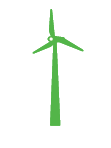
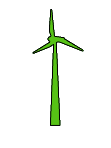
change by project function event click

Changed region(s): [[0.2703, 0.0541, 0.7568, 0.8649]]

diff --git a/web/assets/core/js/page-dashboard-summary.js b/web/assets/core/js/page-dashboard-summary.js
@@ -835,7 +835,7 @@ sum.indiaMap = function (project) {
         var markers = new Array();
 
         turbineInfos.forEach(function (obj, idx) {
-            var imgUrl = (obj.status == true ? "../res/img/turbine-green.png" : "../res/img/turbine-red.png")
+            var imgUrl = (obj.status == true ? "../res/img/turbine-green-new.png" : "../res/img/turbine-red.png")
 
             var marker = new google.maps.Marker({
                 position: new google.maps.LatLng(obj.coords[0], obj.coords[1]),
@@ -843,7 +843,7 @@ sum.indiaMap = function (project) {
                 title: obj.name,
                 icon: {
                     url: imgUrl, // url
-                    scaledSize: new google.maps.Size(35, 45), // scaled size
+                    scaledSize: new google.maps.Size(70, 50), // scaled size
                 }
             });
 
@@ -854,7 +854,11 @@ sum.indiaMap = function (project) {
             google.maps.event.addListener(marker, 'click', function () {
                 var project = $("#projectId").data("kendoDropDownList").value();
                 if(project == "Fleet"){
-                    sum.ToMonitoringProject(obj.name);
+                    // sum.ToMonitoringProject(obj.name);
+                    setTimeout(function(){
+                        $("#projectId").data('kendoDropDownList').value(obj.name);
+                        lgd.LoadData();
+                    }, 200);
                 }else{
                     sum.ToMonitoringIndividual(project, obj.name);
                 }
